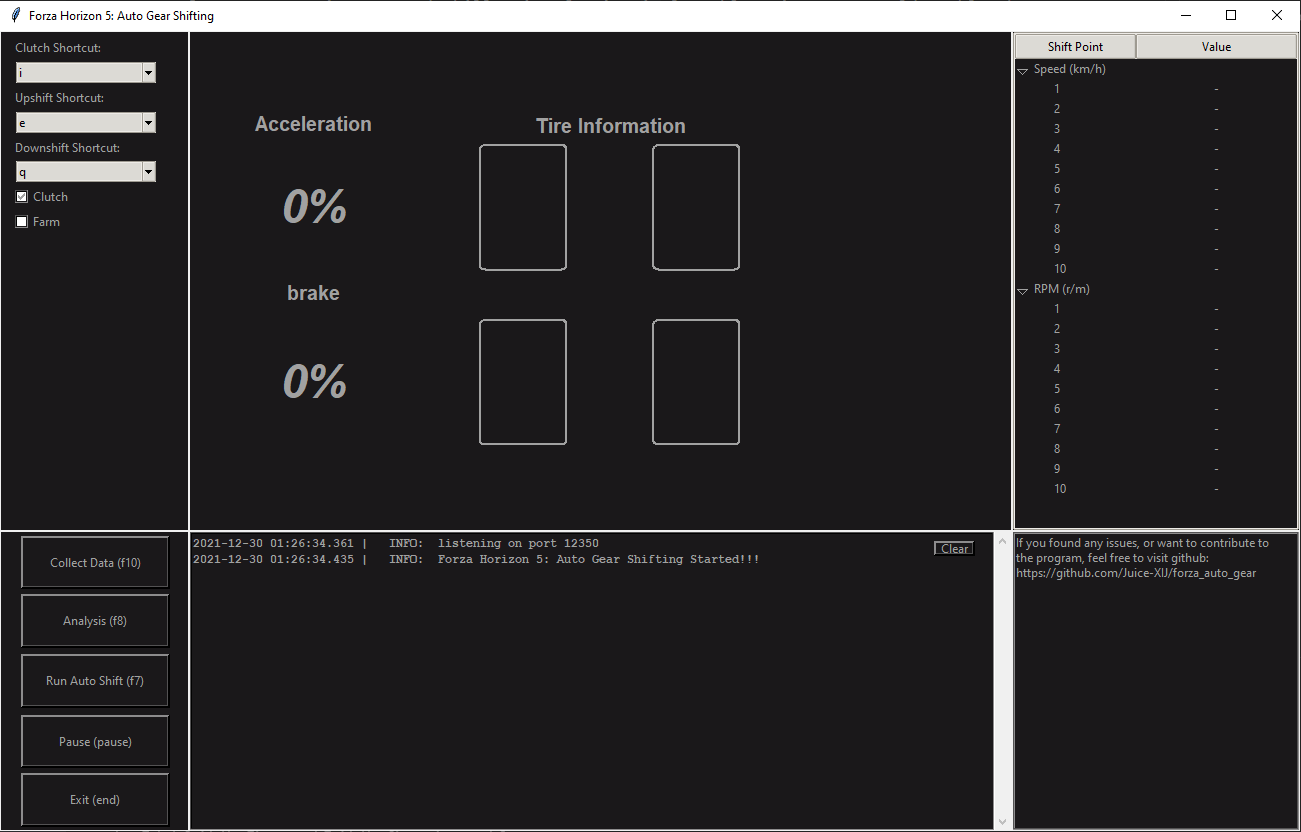
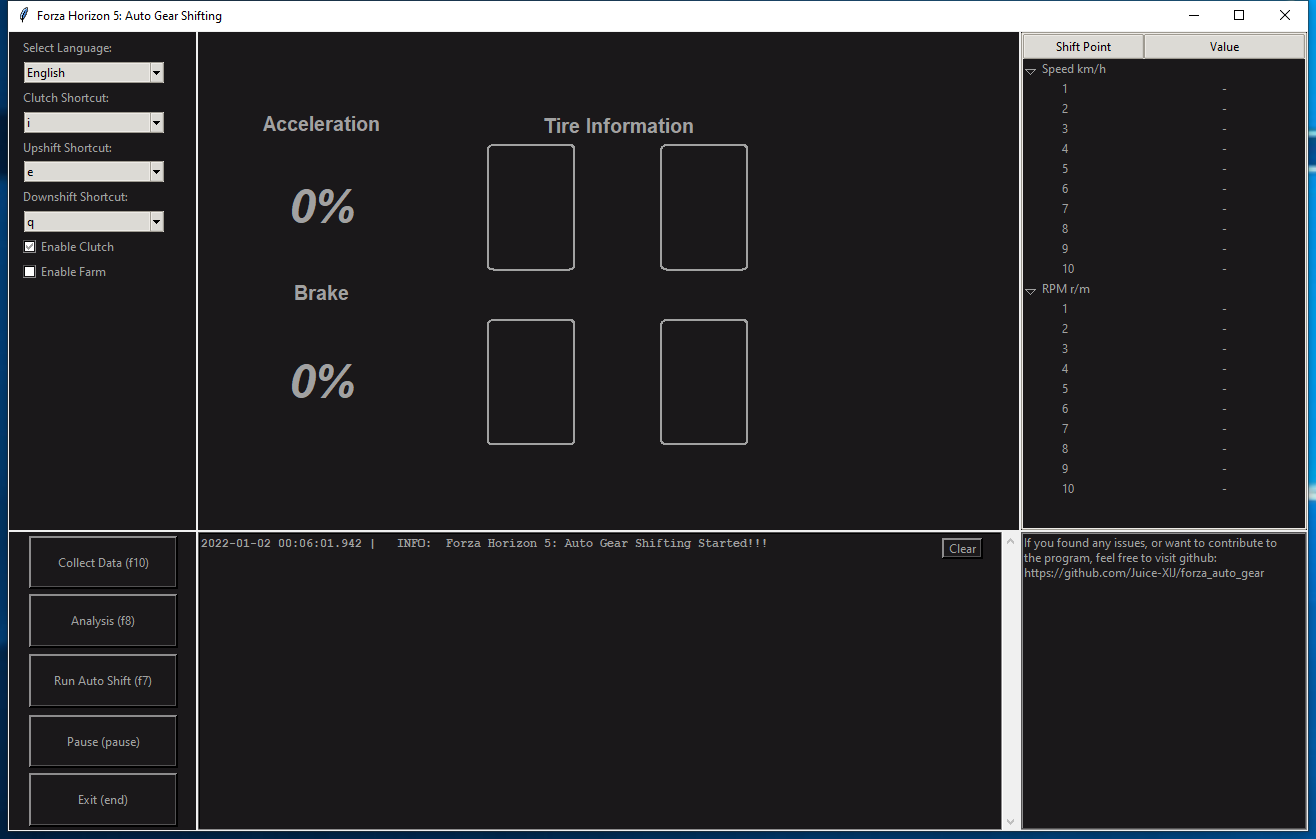
docs update (#23)

diff --git a/README.zhcn.md b/README.zhcn.md
@@ -46,7 +46,7 @@ Install >= Python 3.8
 Then the result will be saved at `./config/{car ordinal}.json`
 4. F7 开始自动升降档！再按一次则可以停止.
     - GUI:
-    ![f7 gui test](./img/f7_gui_test.png)
+    ![f7 gui test](./img/f7_gui_test_zh_cn.png)
 
     - Command Line:
     ![f7 test](./img/f7_test.png)
